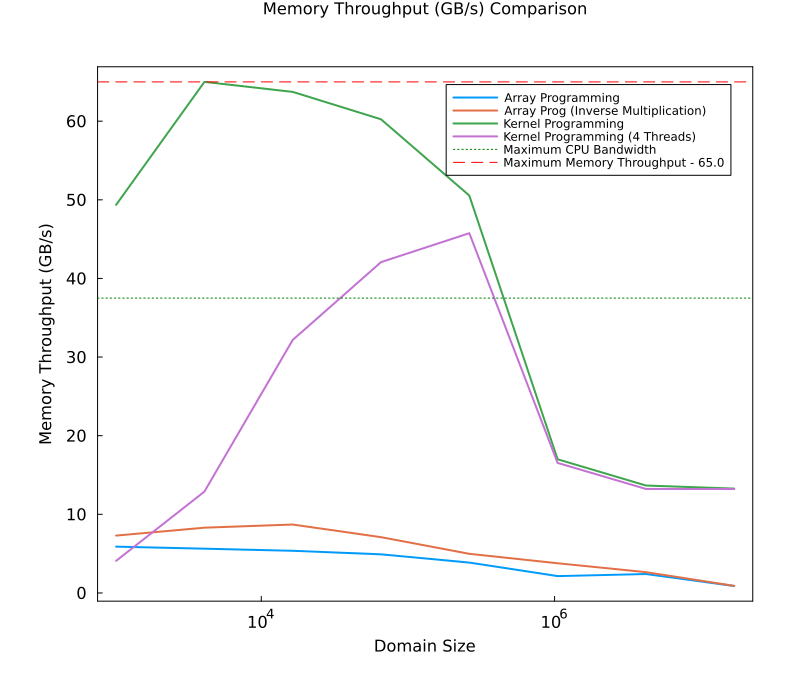
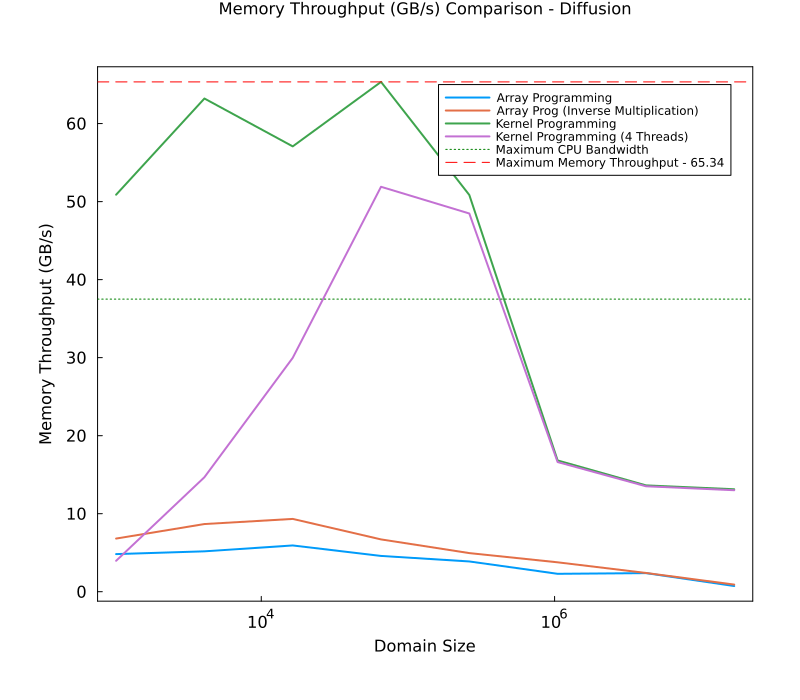
Minor changes to README and figure

diff --git a/homework-5/README.md b/homework-5/README.md
@@ -23,7 +23,7 @@ The performed test assesses the change in memory throughput as we vary the domai
 
 The results of the test are in tandem with the theoretical hypothesis. The hypothesis is that kernel programming usually has a higher memory throughput in comparison to the array programming for Julia programs. Apart from minor deviations, we can observe that by both approaches to evaluating the memory throughput (i.e., using manual implementatation and the BenchmarkTools package), the kernel programming approach achieves a greater memory throughput compared to array programming.
 
-A key observation from the plot reveals that for a smaller domain size ($< 10^{5}$ grid points), the memory throughput is greater than the vendor-announced peak CPU memory bandwidth. This is because for smaller domain sizes, the grid is small enough to fit within the cache memory and data is fetched by our program from the cache memory resulting in a higher memory throughput. However, larger domain sizes do not fit in the cache memory and require to be accesed from the main memory resulting in a lower memory throughput.
+A key observation from the plot reveals that for a smaller domain size ($< 10^{5}$ grid points), the memory throughput is greater than the vendor-announced peak CPU memory bandwidth. This is because for smaller domain sizes, the grid is small enough to fit within the cache memory and data is fetched by our program from the cache memory resulting in a higher memory throughput. However, larger domain sizes do not fit in the cache memory and require to be accessed from the main memory resulting in a lower memory throughput.
 
 ##### Task 3
 
@@ -31,7 +31,7 @@ The figure reported below compares the Peak Memory Throughput ($T_{peak}$) and t
 
 ![Figure 2](./docs/diffusion_ex_2_task_3.png)
 
-The performed test assesses which solver has the best memory throughput by comparing two versions of array programming and two versions of kernel programming via a domain size vs memory throughput plot.  
+The performed test assesses which solver has better memory throughput by comparing two versions of array programming and two versions of kernel programming via a domain size vs memory throughput plot.  
 
 In comparison to task 3, which only has 3 memory accesses per iteration whereas the diffusion solvers have 10 memory accesses per iteration, we can observe greater difference in the memory throughputs of the kernel programming solvers compared to the array programming solvers. The array programming solvers have a memory throughput of less than 10 GB/s for all domain sizes. The kernel programming solvers have a greater memory throughput for all domain sizes in comparison to the array programming solvers.
 
